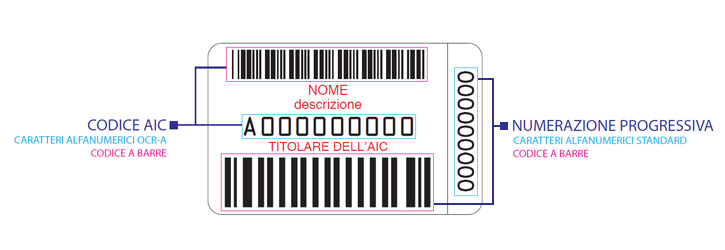
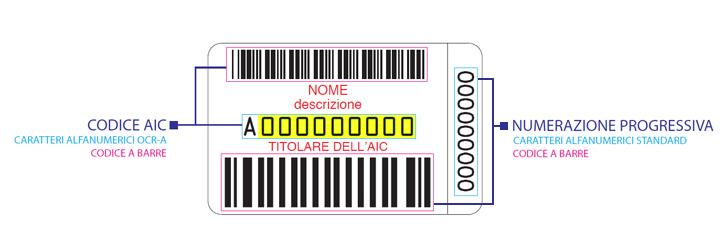
posizionato default su dh3 e evidenziato la figura

diff --git a/fiweb/dh3.js b/fiweb/dh3.js
@@ -206,7 +206,7 @@ function _onload() {
             $ul.html( "<li><div class='ui-loader'><span class='ui-icon ui-icon-loading'></span></div></li>" );
             $ul.listview( "refresh" );
             $.ajax({
-                url: "data.jsp",
+                url: "archive",
                 dataType: "jsonp",
                 crossDomain: true,
                 data: {
@@ -223,6 +223,7 @@ function _onload() {
             });
         }
     });
+
     
 	/*
     $(document)
@@ -235,12 +236,19 @@ function _onload() {
         $('#aic').show();
       });
       */
-	  
-    $('#aic').keypress (function (event) {
-        if (event && event.which && event.which == 13) {
+
+    $(document).keydown(function(event){    
+        var keycode = (event.keyCode ? event.keyCode : event.which);
+        if(keycode == '13'){
             dosearch($('#aic').val());
-        }
+        }    
     });
+	  
+    //$('#aic').keypress (function (event) {
+    //    if (event && event.which && event.which == 13) {
+    //        dosearch($('#aic').val());
+    //    }
+    //});
 
     if ($('#aic').val().trim().length > 0) {
         dosearch($('#aic').val());
